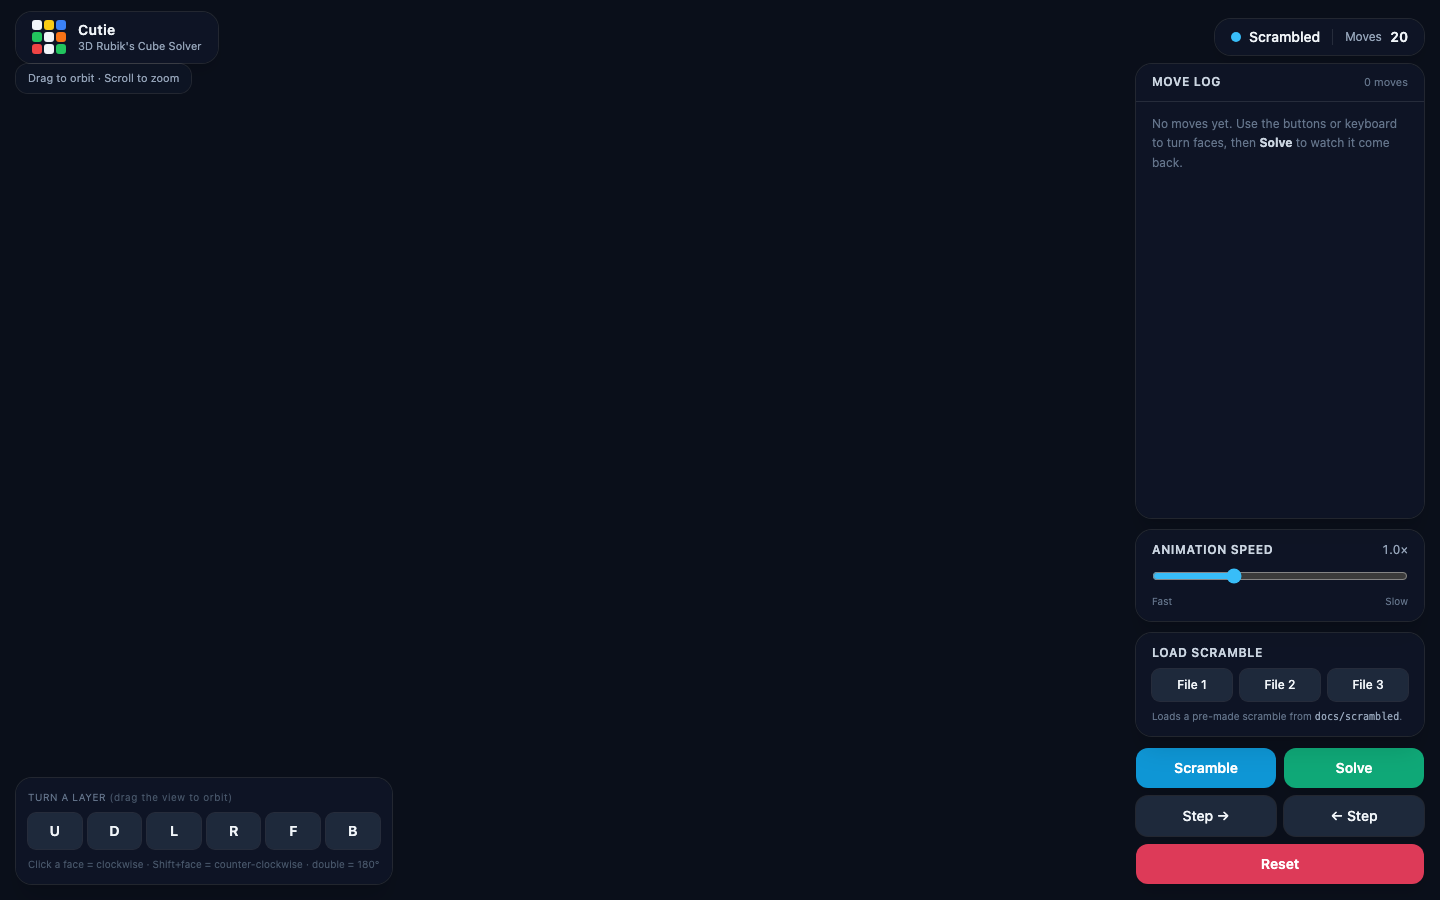
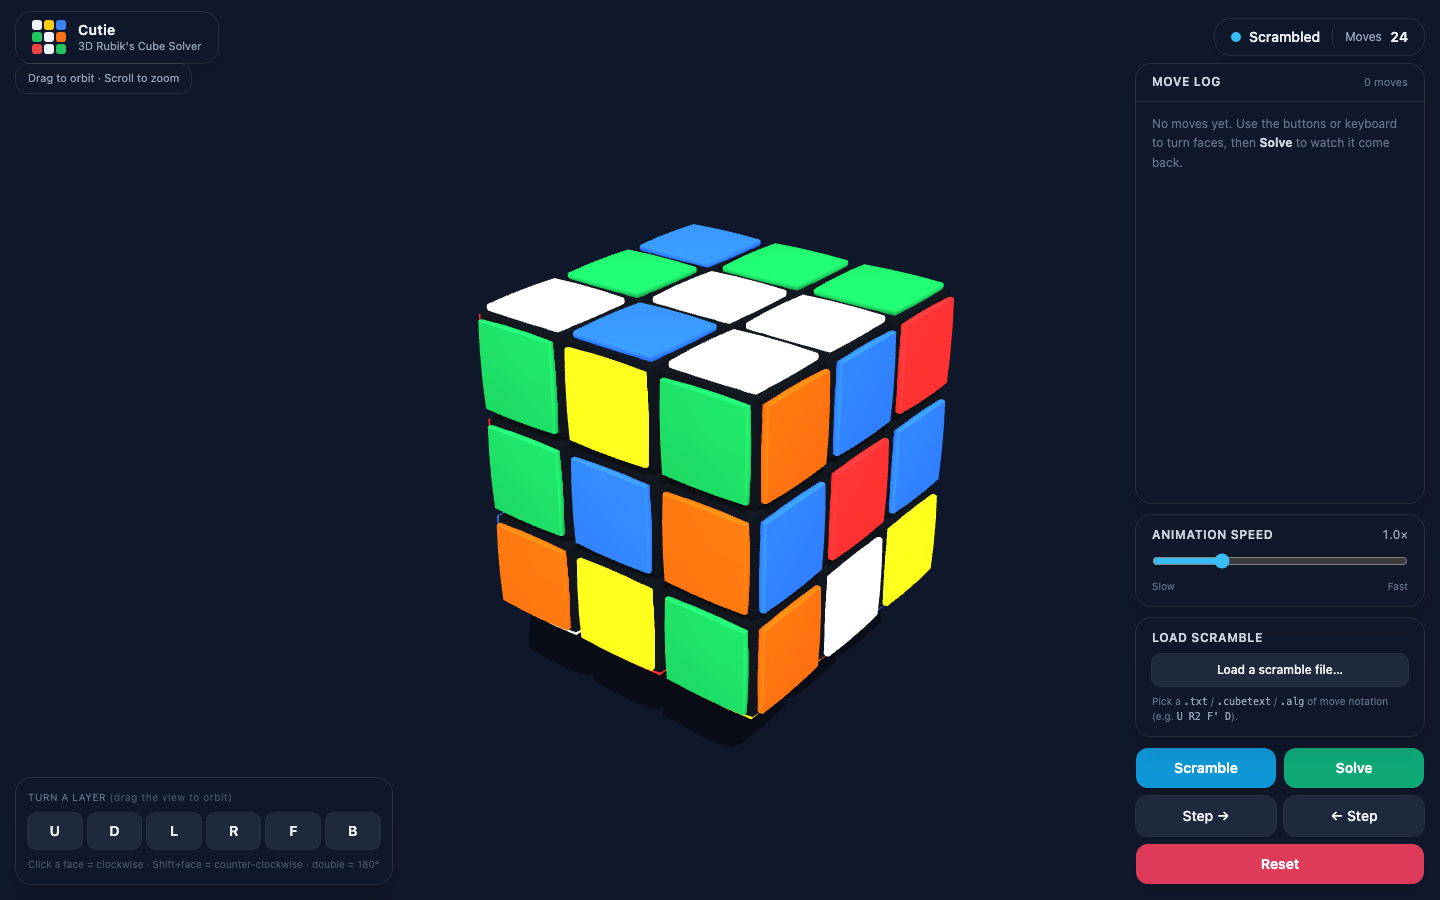
Regenerate screenshots with transparent cube compositing
Fix renderFrame() to produce a transparent cube-only frame (renderer
alpha:true, null background, clearAlpha 0) so it composites cleanly over
the DOM UI instead of painting a black box over the edge panels. Update
tools/render-screenshot.js for the new renderFrame hook and ImageMagick v7
(magick) invocation, and fix the camera setView() preset to read spherical
targets from the Spherical rather than the Vector3.

Regenerated docs/screenshots/{solved,scrambled,solved-after}.png.

Changed region(s): [[0.3125, 0.2489, 0.6875, 0.8089], [0.7812, 0.6844, 0.9688, 0.8089], [0.7812, 0.5911, 1.0, 0.6533]]

diff --git a/index.html b/index.html
@@ -294,6 +294,10 @@
 
   const renderer = new THREE.WebGLRenderer({
     antialias: true,
+    // Transparent canvas so a cube-only frame (renderFrame) can be composited
+    // over the DOM UI in screenshots without hiding the edge panels. The scene
+    // background is opaque, so the live app looks unchanged.
+    alpha: true,
     // Keep the drawing buffer so screenshots (and pixel reads in headless
     // tests) capture a rendered frame instead of a cleared one.
     preserveDrawingBuffer: true,
@@ -461,7 +465,9 @@
     setView(preset) {
       const p = HOME_POS;
       const s = new THREE.Spherical().setFromVector3(p.clone().sub(this.target));
-      if (preset) { this.thetaTarget = p.theta; this.phiTarget = p.phi; this.radiusTarget = p.radius; }
+      // `s` holds HOME_POS's spherical coords; `p` is a plain Vector3 with no
+      // theta/phi/radius, so read the targets from the Spherical, not the point.
+      if (preset) { this.thetaTarget = s.theta; this.phiTarget = s.phi; this.radiusTarget = s.radius; }
     }
     update() {
       // ease toward targets
@@ -1072,11 +1078,21 @@
   // The background is restored immediately, so this is safe to call from the
   // hook; the returned PNG contains only the cube (and shadows) over
   // transparency, ready to composite over the DOM UI.
+  // Render one frame with a TRANSPARENT scene background and return its pixels.
+  // A plain transparent Color background is not enough: three.js clears an
+  // opaque Color at clearAlpha=1, so we (a) drop the background to null and
+  // (b) clear with alpha 0. With the renderer created with alpha:true the empty
+  // regions read back as transparent, so the cube layer composites cleanly over
+  // the DOM UI. The background + clear state is restored immediately, so this is
+  // safe to call from the hook.
   function renderFrame() {
-    const prev = scene.background;
-    scene.background = new THREE.Color(0, 0, 0, 0);
+    const prevBg = scene.background;
+    const prevClear = renderer.getClearColor(new THREE.Color());
+    const prevAlpha = renderer.getClearAlpha();
+    scene.background = null;
+    renderer.setClearColor(0x000000, 0);
     try { return readFrame(); }
-    finally { scene.background = prev; }
+    finally { scene.background = prevBg; renderer.setClearColor(prevClear, prevAlpha); }
   }
 
   // Force the renderer to a specific pixel ratio and rescale the canvas to the
@@ -1132,6 +1148,8 @@
     // returned buffer matches the viewport 1:1.
 
     readFrame,
+
+    renderFrame,
 
     setPixelRatio,
 

diff --git a/tools/render-screenshot.js b/tools/render-screenshot.js
@@ -44,12 +44,16 @@ function readScramble(i) {
 }
 
 // Convert a base64-encoded raw RGBA pixel buffer to a PNG file via ImageMagick.
+// ImageMagick v7 (magick) reads headerless pixels with `-size WxH -depth 8` and
+// the `rgba:`/`rgb:` raw format; the old `convert WxH rgb:file` positional form
+// no longer parses under IMv7.
 function pixelsToPng(base64, w, h, outPng) {
   const raw = Buffer.from(base64, 'base64');
-  const rawPath = path.join(TMP, 'pixels.rgb');
+  const rawPath = path.join(TMP, 'pixels.rgba');
   fs.writeFileSync(rawPath, raw);
-  // ImageMagick: read the raw pixels as an RGB image at w x h and write a PNG.
-  execFileSync('convert', [`${w}x${h}`, 'rgb:' + rawPath, '-background', 'black', '-compose', 'over', '-alpha', 'remove', outPng]);
+  // readFrame() returns a 4-channel RGBA buffer, so read it as rgba and keep the
+  // alpha channel (the cube layer is composited over the DOM UI below).
+  execFileSync('magick', ['-size', `${w}x${h}`, '-depth', '8', 'rgba:' + rawPath, outPng]);
 }
 
 async function main() {
@@ -74,15 +78,18 @@ async function main() {
 
   // --- Helper: capture the full UI + the GL frame and composite them. ---
   async function snap(name) {
-    // 1) Get the cube as a PNG (from the GL back buffer).
-    const frame = await page.evaluate(() => window.__RUBIKS__.readFrame());
+    // 1) Get the cube as a PNG (from the GL back buffer, transparent background
+    // so it composites cleanly over the UI without hiding the edge panels).
+    const frame = await page.evaluate(() => window.__RUBIKS__.renderFrame());
     const cubePng = path.join(TMP, name + '.cube.png');
     pixelsToPng(frame.data, frame.width, frame.height, cubePng);
     // 2) Get the DOM UI (canvas region will be dark; we overlay the cube).
     const uiPng = path.join(TMP, name + '.ui.png');
     await page.screenshot({ path: uiPng });
-    // 3) Composite: cube over UI at (0, 0).
-    execFileSync('convert', [uiPng, cubePng, '-compose', 'over', '-gravity', 'NorthWest', '-geometry', '+0+0', path.join(OUT, name)]);
+    // 3) Composite: cube over UI at (0, 0).  `-composite` (IMv7) actually merges
+    // the two-image sequence produced by `-compose over` into ONE output file;
+    // without it magick writes one file per input image (name-0, name-1, …).
+    execFileSync('magick', [uiPng, cubePng, '-compose', 'over', '-gravity', 'NorthWest', '-geometry', '+0+0', '-composite', path.join(OUT, name)]);
   }
 
   // ---- 1. Solved (initial state) ----
